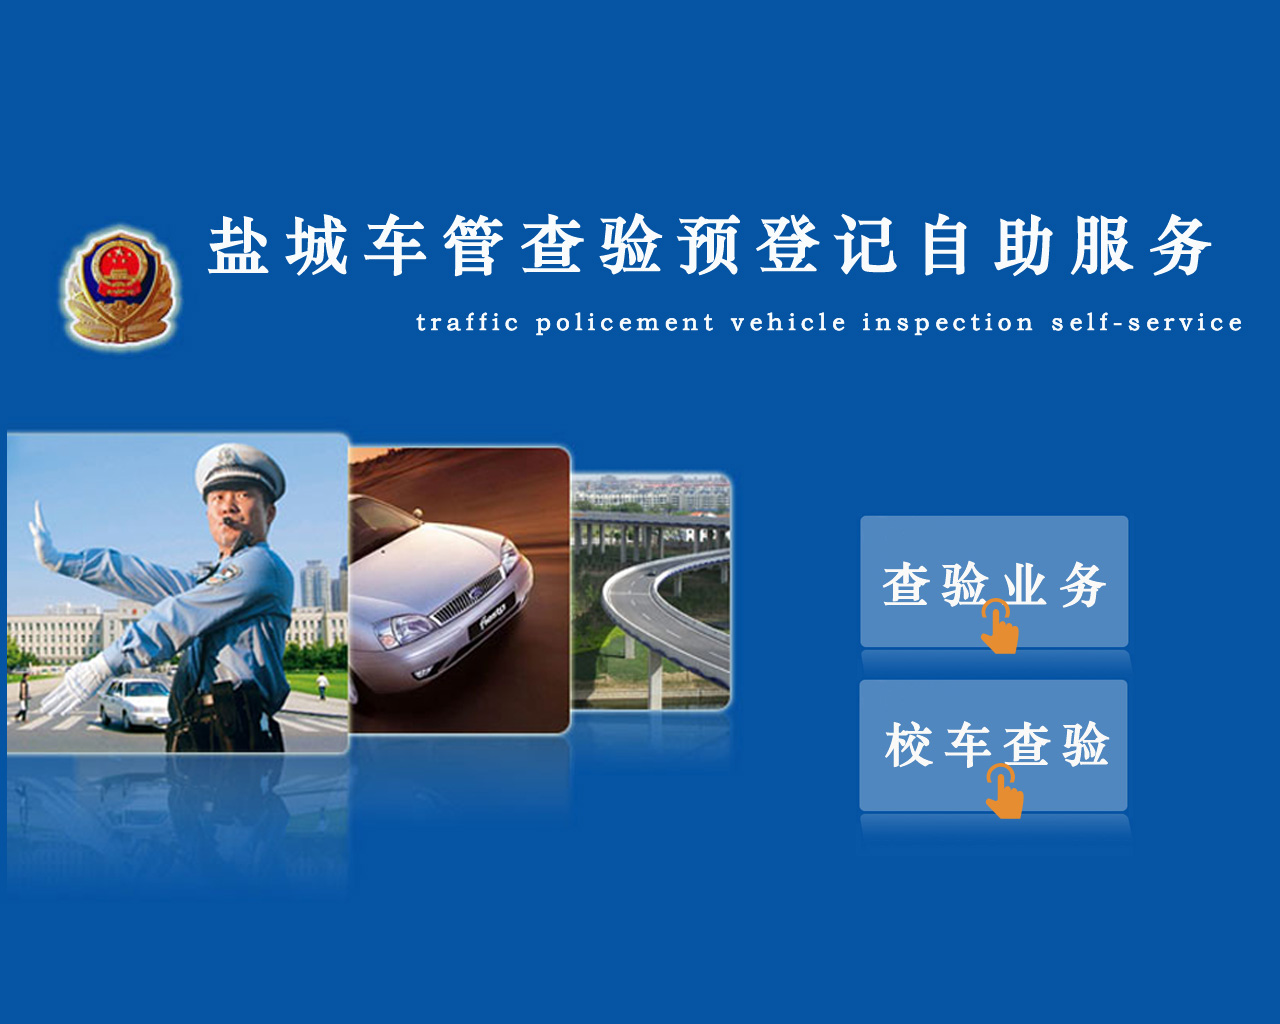
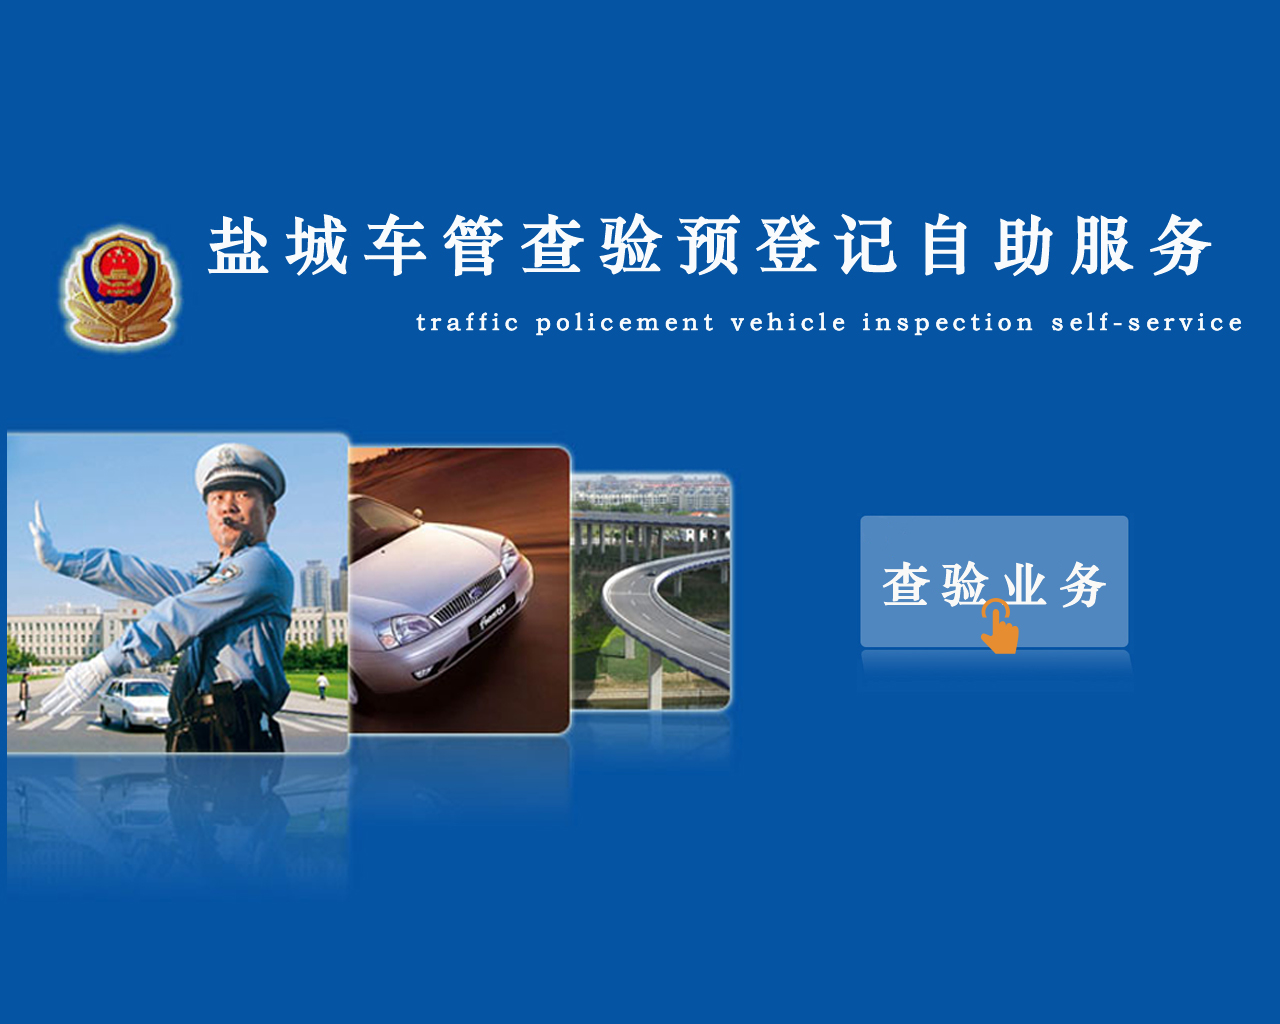
update

Changed region(s): [[0.6562, 0.6562, 0.9062, 0.8125]]

diff --git a/cms/src/main/resource/static/html/vehicleLock.html b/cms/src/main/resource/static/html/vehicleLock.html
@@ -13,7 +13,6 @@ function endEditing(){
     }
 }
 function onDBClickRow(index, field){
-	debugger;
     if (editIndex != index){
         if (endEditing()){
             $('#datagrid-vehicleLock').datagrid('selectRow', index)
@@ -26,12 +25,12 @@ function onDBClickRow(index, field){
         }
     }
 }
-
+var rowD = "";
 vehicleLockManager.unLock=function(){
-	$("#datagrid-vehicleLock" ).datagrid('acceptChanges');
-var row = $("#datagrid-vehicleLock").datagrid("getSelected");
-console.log(row)
+	//$("#datagrid-vehicleLock" ).datagrid('acceptChanges');
+	rowD = $("#datagrid-vehicleLock").datagrid("getSelected");
 	
+	/**
 	if(!row){
 		$.messager.alert("提示","请选择要解锁的数据！","info");
 		return;
@@ -52,7 +51,39 @@ console.log(row)
 				},"json");	
 			}
 		});
+	}**/
+	if(!rowD){
+		$.messager.alert("提示","请选择要解锁的数据！","info");
+		return;
+	}else{
+		$.messager.confirm("确认","您是否确认解锁该数据？",function(r){
+			if(r){
+				$('#unlockDlg').dialog('open');
+			}else{
+				rowD = "";
+			}
+		});
+		
 	}
+}
+
+function ywUnLock(){
+	var jsyyVal = $("#jsyy").textbox("getValue");
+	if(jsyyVal == null || jsyyVal == ""){
+		$.messager.alert("提示","请输入解锁原因！","info");
+		return;
+	}
+	
+	rowD.jsyy = jsyyVal;
+	$.post("../../vehicleLock/unLock",rowD,function(data){
+		if(data.state==1){
+			$.messager.alert("提示","解锁成功！","info");
+			$('#unlockDlg').dialog('close');
+			rowD = "";
+			$("#jsyy").textbox("setValue","");
+			$("#datagrid-vehicleLock").datagrid("reload");
+		}
+	},"json");	
 }
 
 </script>
@@ -69,7 +100,7 @@ console.log(row)
 	                <th  width="80px" data-options="field:'sdzt',formatter:sdztFormatter">锁定状态</th>
 	                <th  width="100px" data-options="field:'jsr'">解锁人</th> 
 	                <th  width="150px" data-options="field:'jssj'">解锁时间</th> 
-	                <th  width="150px" data-options="field:'jsyy',editor:{type:'textbox'}">解锁原因</th> 
+	                <th  width="150px" data-options="field:'jsyy'">解锁原因</th> 
 	                <th  width="150px" data-options="field:'sdyy',editor:{type:'textbox',options:{required:true}}">锁定原因</th> 
 	            </tr>
 	        </thead>
@@ -82,14 +113,39 @@ console.log(row)
 	    	</div>
 	    	
 	    </div>
-	    
+ <div id="unlockDlg" class="easyui-dialog" title="业务解锁" style="width:400px;height:150px;padding:10px"
+            data-options="
+                iconCls: 'icon-save',
+                closed: true,
+                buttons: [{
+                    text:'确定',
+                    iconCls:'icon-ok',
+                    handler:function(){
+                        ywUnLock();
+                    }
+                },{
+                    text:'关闭',
+                    iconCls:'icon-no',
+                    handler:function(){
+                        closeDlg();
+                    }
+                }]
+            ">
+       <div align="center"><br> <label>解锁原因：</label>
+        <input name="jsyy" id="jsyy" class="easyui-textbox"  required="true"  />
+        </div>
+    </div>	    
 <script type="text/javascript">
 function sdztFormatter(value,row,index){
 	if(value == 0){
-		return "未锁定";
+		return "已解锁";
 	}else if (value == 1){
 		return "锁定";
 	}
 	return  "";
+}
+
+function closeDlg(){
+	$('#unlockDlg').dialog('close')
 }
 </script>

diff --git a/cms/src/main/resource/static/html/vehCheckInfoList.html b/cms/src/main/resource/static/html/vehCheckInfoList.html
@@ -84,7 +84,7 @@ function viewCheckInfo() {
 	var row = $("#vehCheckInfoDG").datagrid("getSelected");
 	if (row != null) {
 		//
-		$.post("../../vheCheckInfo/printCheckInfo",{"lsh":row.lsh,"cycs":row.cycs},function(data){
+		$.post("../../vheCheckInfo/printCheckInfo",{"lsh":row.lsh,"cycs":row.cycs,"veh_sfxc":row.veh_sfxc},function(data){
 			if(data.state==1){
 				$("#printTemplet img").attr("src","../cache/report/"+data.data);
 				var printObj = {};
@@ -106,7 +106,7 @@ function printCheckInfo() {
 	var row = $("#vehCheckInfoDG").datagrid("getSelected");
 	if (row != null) {
 		//
-		$.post("../../vheCheckInfo/printCheckInfo",{"lsh":row.lsh,"cycs":row.cycs},function(data){
+		$.post("../../vheCheckInfo/printCheckInfo",{"lsh":row.lsh,"cycs":row.cycs,"veh_sfxc":row.veh_sfxc},function(data){
 			if(data.state==1){
 				$("#printTemplet img").attr("src","../cache/report/"+data.data);
 				var isView = $("#isView").checkbox("options").checked;
@@ -130,7 +130,7 @@ function tdCheckInfo() {
 	var row = $("#vehCheckInfoDG").datagrid("getSelected");
 	if (row != null) {
 		//
-		$.post("../../vheCheckInfo/tdCheckInfo",{"lsh":row.lsh,"cycs":row.cycs},function(data){
+		$.post("../../vheCheckInfo/tdCheckInfo",{"lsh":row.lsh,"cycs":row.cycs,"veh_sfxc":row.veh_sfxc},function(data){
 			if(data.state==1){
 				$("#printTemplet img").attr("src","../cache/report/"+data.data);
 				var isView = $("#isView").checkbox("options").checked;

diff --git a/cms/src/main/resource/static/js/vehCheck.js b/cms/src/main/resource/static/js/vehCheck.js
@@ -11,7 +11,7 @@ function viewImage(){
 					$.each(photos,function(i,n){
 						var li=$("<li></li>");
 						var span = $("<span></span>");
-						var img = $("<label>检验次数"+n[4]+"<br>"+comm.getParamNameByValue("zpzl",n[5])+"</label><br/><img id='"+n[0]+"Img' width='80px' height='80px'/><br/><input type='button' value='裁剪及打印' onclick='cropperImg("+n[0]+")'>");
+						var img = $("<label>检验次数"+n.jccs+"<br>"+comm.getParamNameByValue("zpzl",n.zpzl)+"</label><br/><img id='"+n.id+"Img' width='80px' height='80px'/><br/><input type='button' value='裁剪及打印' onclick='cropperImg("+n.id+")'>");
 						img.attr("src","../images/loading.gif")
 						span.append(img);
 						li.append(span);
@@ -39,9 +39,9 @@ function viewImage(){
 					$("#photoView").viewer({});
 					//请求刷新图片
 					$.each(photos,function(i,n){
-						$.post("../../vheCheckInfo/buildVehPhoto",{"id":n[0]},function(data){
+						$.post("../../vheCheckInfo/buildVehPhoto",{"id":n.id},function(data){
 							if(data.state==1){
-								$("#"+n[0]+"Img").attr("src","../cache/vehimage/"+n[0]+".jpg");
+								$("#"+n.id+"Img").attr("src","../cache/vehimage/"+n.id+".jpg");
 							}else{
 								$.messager.alert("提示",data.message,"error");
 							}

diff --git a/cms/src/main/resource/static/html/shIndex.html b/cms/src/main/resource/static/html/shIndex.html
@@ -80,13 +80,13 @@ $(function(){
 </head>
 <body style="background-color: rgb(5,84,163);">
 <div style="background-image: url('../images/selfHelpLogin.jpg');width: 1270px;height: 1000px;background-repeat: no-repeat;">
-	<div style="width: 270px;position: absolute;top: 524px;left: 870px;height: 135px;" onclick="openPage('');"></div>
-	<div style="width: 270px;position: absolute;top: 687px;left: 870px;height: 135px;" onclick="openPage('Y');"></div>
+	<div style="width: 270px;position: absolute;top: 524px;left: 870px;height: 135px;" onclick="checkCar();"></div>
+	<!--<div style="width: 270px;position: absolute;top: 687px;left: 870px;height: 135px;" onclick="openPage('Y');"></div>-->
 </div>
 </body>
 <script type="text/javascript">
 function checkCar(){
-	window.location.href="checkAndRegister.html";
+	window.location.href="checkAndRegisterCar.html";
 }
 </script>
 </html>

diff --git a/cms/src/main/resource/static/html/checkAndRegisterCar.html b/cms/src/main/resource/static/html/checkAndRegisterCar.html
@@ -187,7 +187,7 @@ function nextStep(){
 <script type="text/javascript">
 $(function(){
 	qrtNumber=window.setInterval("readQrLabel();",200);
-	var url = decodeURI(window.location.href);
+	/**var url = decodeURI(window.location.href);
 
 	var argsIndex = url .split("?vehSfxc=");
 	var arg = "";
@@ -199,7 +199,7 @@ $(function(){
 		$("#veh_sfxc").val("Y")
 	}else{
 		$("#veh_sfxc").val("")
-	}
+	}**/
 });
 function reloadIndex(){
 	window.location.href = "shIndex.html?timestamp="+ new Date().getTime();
@@ -217,7 +217,7 @@ function readQrLabel() {
 			$.messager.alert("提示", "条码信息有误!");
 			return 0;
 		}
-		console.log(strbarcode)
+		
 		var barArray = strbarcode.split("|");
 	
 		var strBarCodeType = barArray[0];

diff --git a/cms/src/main/resource/static/js/validIEVersion.js b/cms/src/main/resource/static/js/validIEVersion.js
@@ -1,0 +1,14 @@
+$(function(){
+	var nAgt = navigator.userAgent;
+	if(window.navigator.userAgent.indexOf("Windows NT 6.1") != -1) { //window 7
+		if ( (nAgt.indexOf("Trident"))!=-1 ) {   // IE ( ver >= ie7) In MSIE, the true version is after "MSIE" in userAgent
+		    if((verOffset=nAgt.indexOf("MSIE"))!=-1){
+		    	 $.messager.confirm('警告', '当前IE版本较低，为保证页面正常使用，请重新下载IE11进行使用', function(r){
+		                if (r){
+		                	window.open("../cache/download/IE11_Windows6.1_x86_zh_cn.exe");
+		                }
+		            });
+		    }
+		}
+	}
+})

diff --git a/cms/src/main/resource/static/html/index.html b/cms/src/main/resource/static/html/index.html
@@ -34,6 +34,7 @@
 <script type="text/javascript" src="../js/createMenus.js"></script>
 <script type="text/javascript" src="../js/jquery.rotate.min.js"></script>
 <script type="text/javascript" src="../js/viewer/viewer.min.js"></script>
+<script type="text/javascript" src="../js/validIEVersion.js"></script>
 <title>机动车查验管理系统</title>
 <style type="text/css">
 #mask {
@@ -217,7 +218,6 @@
 </body>
 <script type="text/javascript">
 $(window).load(function() {
-	console.log(userInfo)
 	$("#realName").text(userInfo.yhxm);
 	var d = new Date();
 	var userNameValidDate = new Date(userInfo.zhyxq);

diff --git a/base-module/src/main/resource/static/js/jqmdatebox.js b/base-module/src/main/resource/static/js/jqmdatebox.js
@@ -3733,8 +3733,7 @@
 				if ( o.customData.length === 1 ) { hRow.css( "width", "90%" ); }
 				for ( i=0; i < lineArr.length; i++ ) {
 					tmp = ( i !== o.customDataLen ) ? o.themeOpt : o.themeOptPick;
-					console.log(i + " " + o.customDataLen);
-					console.log(typeof i + " " + typeof o.customDataLen);
+					
 					$( "<li>", { "class": "ui-body-" + tmp } )
 						.html( "<span>" + lineArr[i] + "</span>" )
 						.appendTo( hRowIn );

diff --git a/cms/src/main/resource/static/js/LodopFuncs.js b/cms/src/main/resource/static/js/LodopFuncs.js
@@ -62,7 +62,7 @@ function getLodop(oOBJECT,oEMBED){
 	                 
 	             return LODOP;
 	     } else if (LODOP.VERSION<"6.1.9.8") {
-	    	 console.log("LODOP.VERSION " + LODOP.VERSION)
+	    	 //console.log("LODOP.VERSION " + LODOP.VERSION)
 	             if (is64IE){
 	            	 $.messager.alert("警告", strHtml2, 'warn', function() {
 		 					window.open('../print/install_lodop64.exe');

diff --git a/base-module/src/main/resource/static/js/info_regist.js b/base-module/src/main/resource/static/js/info_regist.js
@@ -12,11 +12,7 @@ function openWinOfyx(){
 	var ywlx=$("form[name=tmri] input[name=ywlx]").val();
 	var lsh=$("form[name=agentInfoForm] input[name=lsh]").val();
 	
-	console.log("hphm:"+hphm);
-	console.log("hpzl:"+hpzl);
-	console.log("clsbdh:"+clsbdh);
-	console.log("ywlx:"+ywlx);
-	console.log("lsh:"+lsh);
+	
 	if(clsbdh==""){
 		alert("车辆识别代号不能为空！");
 		return false;

diff --git a/base-module/src/main/resource/static/js/common.js b/base-module/src/main/resource/static/js/common.js
@@ -90,7 +90,7 @@ var comm = {
 	createMumeOfTemp : function(temp, data,context) {
 		var ul = temp.find(".menus" );
 		ul.empty();
-		console.log(ul);
+		
 		$.each(data,function(i,n){
 			var li = $("<li><a id='_menu"+i+"' href=\"javascript:void(0)\"><img></a></li>");
 			li.find("img").attr("src", n.icon);

diff --git a/base-module/src/main/resource/static/html/password.html b/base-module/src/main/resource/static/html/password.html
@@ -23,7 +23,7 @@ function updatePassowrd(){
 	$('#passwodForm').form('submit', {
 		url: "../../user/updatePassword.json",
 		onSubmit: function(){
-			console.log($(this));
+			
 			var isValid = $(this).form('validate');
 			if (!isValid){
 				return false;	// hide progress bar while the form is invalid
